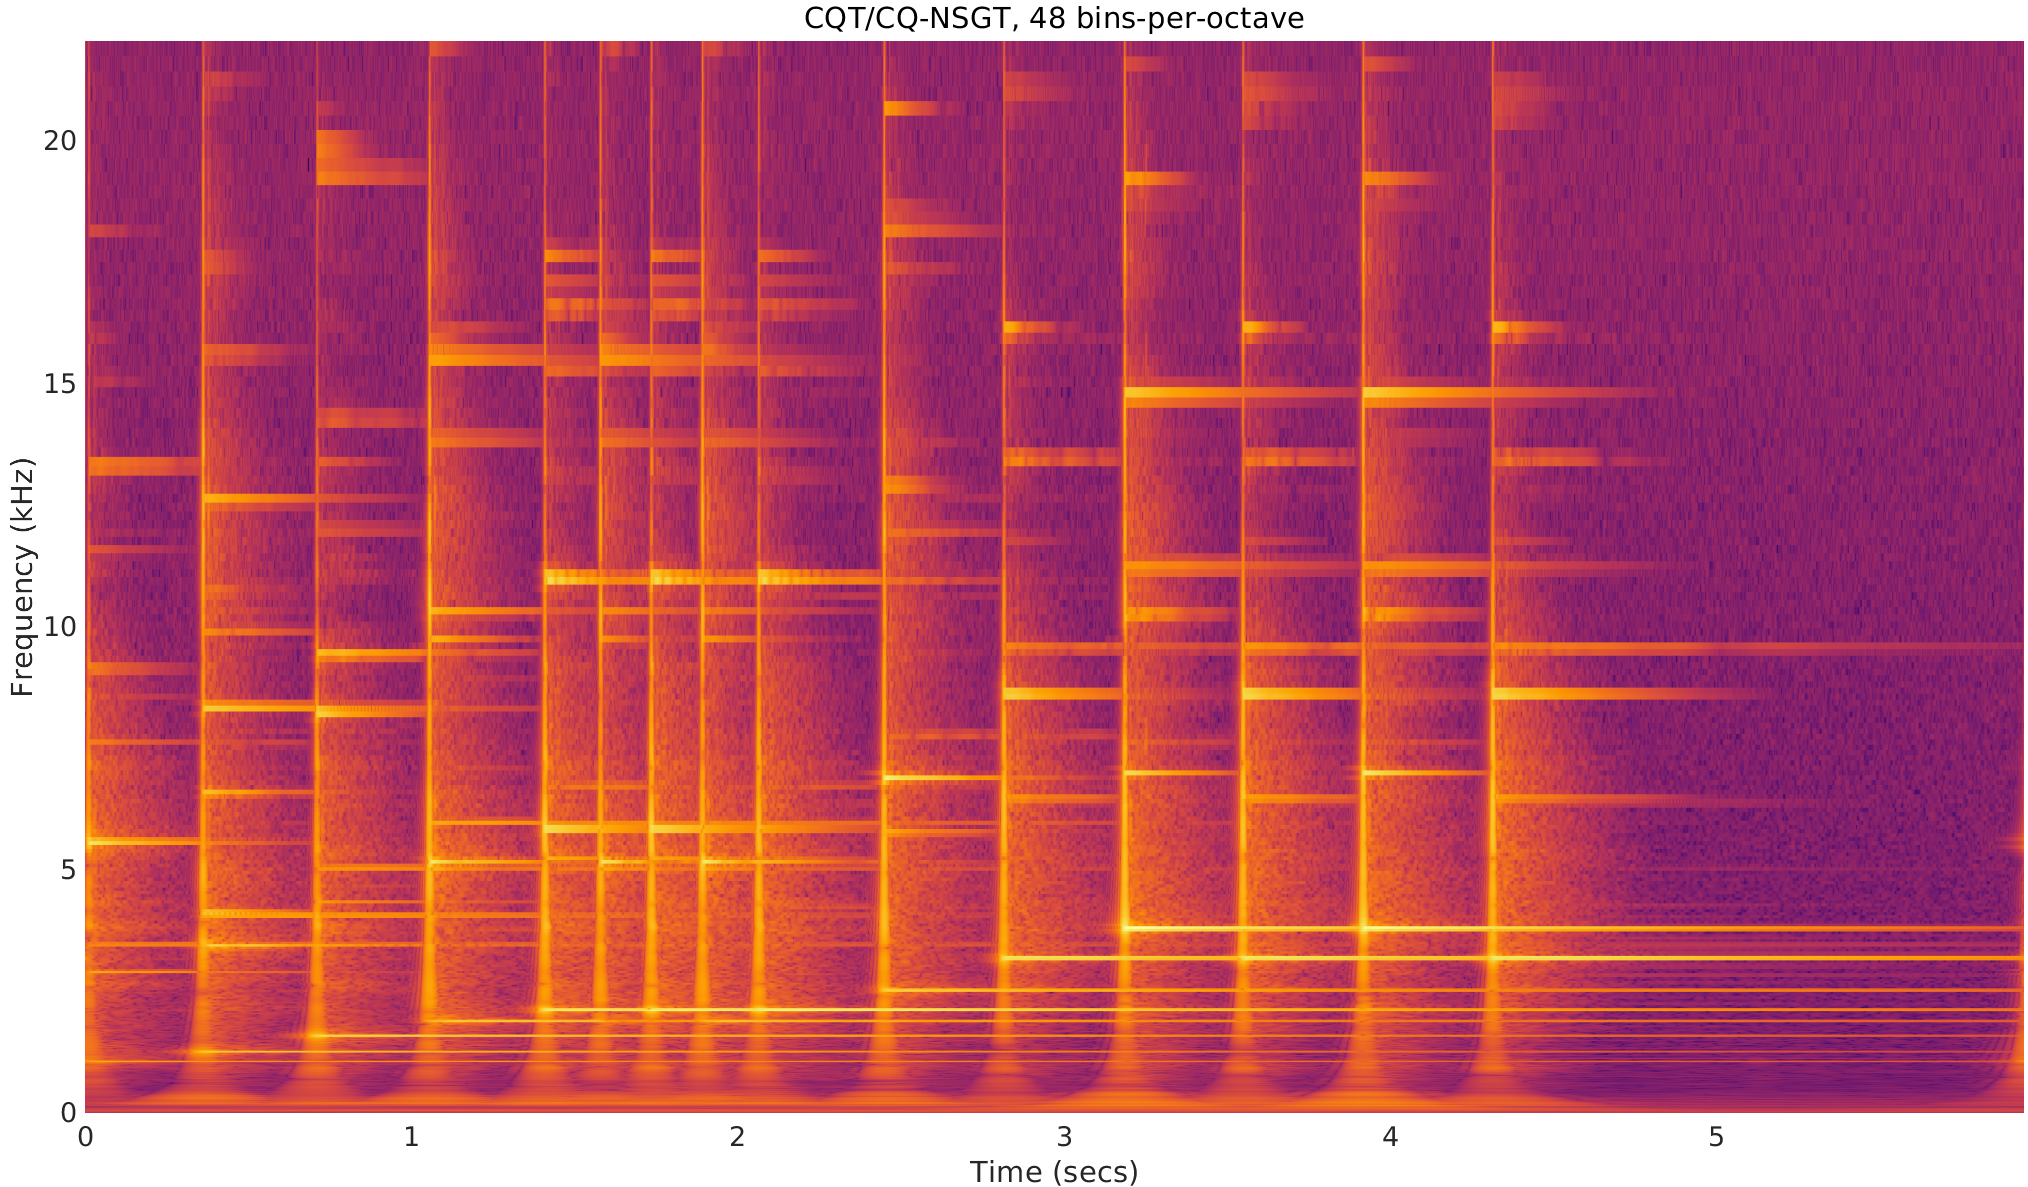
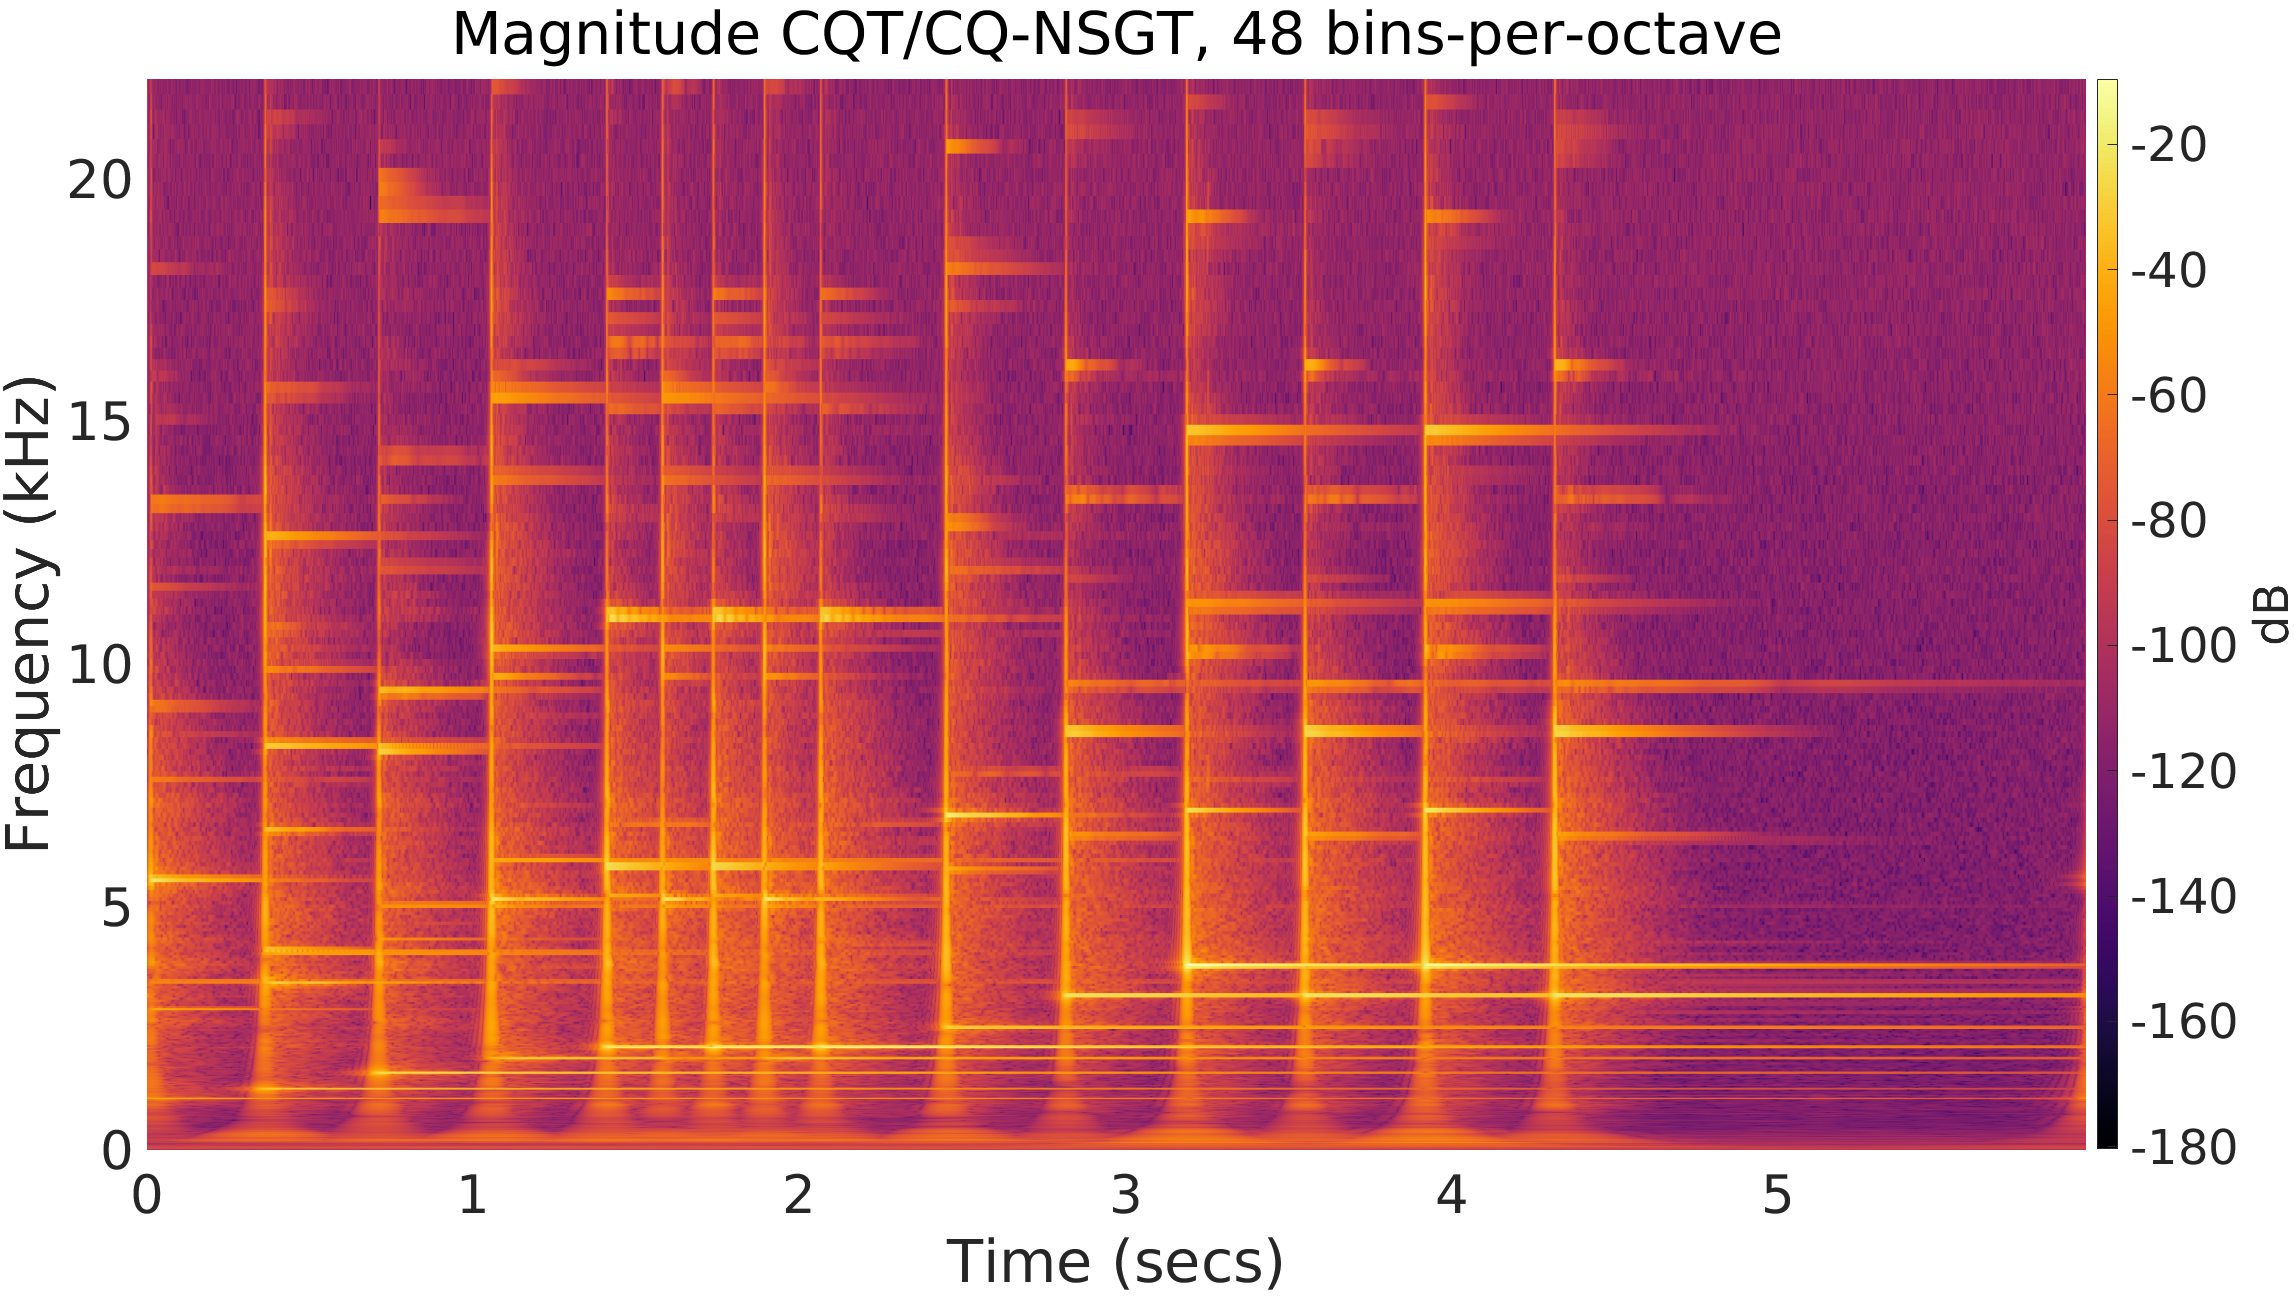
Improve nsgt spectrogram script further

diff --git a/nsgt_spec_plotter/nsgt/examples/spectrogram.py b/nsgt_spec_plotter/nsgt/examples/spectrogram.py
@@ -18,8 +18,9 @@ from nsgt import NSGT, NSGT_sliced, LogScale, LinScale, MelScale, OctScale, VQLo
 from nsgt.fscale import Pow2Scale
 from nsgt.slicq import overlap_add_slicq
 
-
 from argparse import ArgumentParser
+
+
 parser = ArgumentParser()
 
 parser.add_argument("input", type=str, help="Input file")
@@ -30,6 +31,7 @@ parser.add_argument("--gamma", type=float, default=15, help="variable-q frequenc
 parser.add_argument("--cmap", type=str, default='hot', help="spectrogram color map")
 parser.add_argument("--scale", choices=('oct','cqlog','mel','bark','vqlog','pow2'), default='cqlog', help="Frequency scale")
 parser.add_argument("--bins", type=int, default=50, help="Number of frequency bins (total or per octave, default=%(default)s)")
+parser.add_argument("--fontsize", type=int, default=14, help="Plot font size, default=%(default)s)")
 parser.add_argument("--sllen", type=int, default=None, help="Slice length in samples (default=%(default)s)")
 parser.add_argument("--trlen", type=int, default=None, help="Transition area in samples (default=%(default)s)")
 parser.add_argument("--plot", action='store_true', help="Plot transform (needs installed matplotlib package)")
@@ -59,27 +61,20 @@ else:
 freqs, qs = scl()
 #print(freqs)
 #print(['{0:.2f}'.format(q) for q in qs])
-
-print(', '.join(['{0:.2f}'.format(freq) for freq in freqs[:5]]))
-print()
-
-print(', '.join(['{0:.2f}'.format(freq) for freq in freqs[-5:]]))
-print()
-
-print(', '.join(['{0:.2f}'.format(q) for q in qs[:5]]))
-print()
-
-print(', '.join(['{0:.2f}'.format(q) for q in qs[-5:]]))
-print()
+#print(', '.join(['{0:.2f}'.format(freq) for freq in freqs[:5]]))
+#print()
+#print(', '.join(['{0:.2f}'.format(freq) for freq in freqs[-5:]]))
+#print()
+#print(', '.join(['{0:.2f}'.format(q) for q in qs[:5]]))
+#print()
+#print(', '.join(['{0:.2f}'.format(q) for q in qs[-5:]]))
+#print()
 
 # Read audio data
 sf = SndReader(args.input, sr=fs, chns=2)
 signal = sf()
 
 signal = [torch.tensor(sig) for sig in signal]
-
-pad = signal[0].shape[-1]-signal[-1].shape[-1]
-signal[-1] = torch.nn.functional.pad(signal[-1], (0, pad), mode='constant', value=0)
 signal = torch.cat(signal, dim=-1)
 
 # duration of signal in s
@@ -118,14 +113,25 @@ else:
 # add a batch
 c = torch.unsqueeze(c, dim=0)
 
+transform_name = 'sliCQT'
+
 if args.plot:
     # dB
     if args.nonsliced:
         mls = 20.*torch.log10(torch.abs(c))
+        transform_name = 'NSGT'
     else:
+        print(f'c shape: {c.shape}')
+        chop = c.shape[-1]
+        print(f'chop: {chop}')
         mls = 20.*torch.log10(torch.abs(overlap_add_slicq(c, flatten=args.flatten)))
 
-    plt.rcParams.update({'font.size': 14})
+        print(f'pre-remove slice portions from the sides, mls: {mls.shape}')
+        mls = mls[:, :, :, int(chop/2):]
+        mls = mls[:, :, :, :-chop]
+        print(f'remove slice portions from the sides, mls: {mls.shape}')
+
+    plt.rcParams.update({'font.size': args.fontsize})
     fig, axs = plt.subplots(1)
 
     print(f"Plotting t*f space")
@@ -137,21 +143,21 @@ if args.plot:
 
     mls = mls.T
 
-    #fs_coef = fs*slicq.coef_factor # frame rate of coefficients
+    fs_coef = fs*slicq.coef_factor # frame rate of coefficients
     #mls_dur = len(mls)/fs_coef # final duration of MLS
     mls_dur = dur if not args.flatten else 2*dur
 
     mls_max = torch.quantile(mls, 0.999)
-    axs.imshow(mls.T, aspect=mls_dur/mls.shape[1]*0.2, interpolation='nearest', origin='lower', vmin=mls_max-60., vmax=mls_max, extent=(0,mls_dur,0,mls.shape[1]), cmap=args.cmap)
-    axs.set_title('Magnitude NSGT, {0} scale, {1} bins, {2:.1f}-{3:.1f} Hz'.format(args.scale, args.bins, args.fmin, args.fmax))
+    im = axs.imshow(mls.T, interpolation='nearest', origin='lower', vmin=mls_max-120., vmax=mls_max, extent=(0,mls_dur,0,fs/2000), cmap=args.cmap, aspect=1000*mls_dur/fs)
+    axs.set_title('Magnitude {4}, {0} scale, {1} bins, {2:.1f}-{3:.1f} Hz'.format(args.scale, args.bins, args.fmin, args.fmax, transform_name))
     axs.set_xlabel('Time (s)')
-    axs.set_ylabel('Frequency bin')
+    axs.set_ylabel('Frequency (kHz)')
+    axs.yaxis.get_major_locator().set_params(integer=True)
+
+    fig.colorbar(im, ax=axs, shrink=0.815, pad=0.006, label='dB')
 
     sig = torch.mean(signal, dim=0)
     print(f'sig: {sig.shape} {fs}')
-
-    #axs[1].specgram(sig, Fs=fs, NFFT=2048, noverlap=512, mode='magnitude', scale='dB', sides='onesided')
-    #axs[1].set_title(f'|STFT|')
 
     plt.subplots_adjust(wspace=0.001,hspace=0.001)
     plt.show()

diff --git a/matlab/plot_things.m b/matlab/plot_things.m
@@ -1,7 +1,6 @@
 init;
 
-
-set(0, 'DefaultAxesFontSize', 20);
+set(0, 'DefaultAxesFontSize', 40);
 
 [sig, fs] = gspi;
 
@@ -81,12 +80,12 @@ t = (0.0:dT:duration-dT)';
 
 figure;
 spectrogram(sig,4096,1024,4096,fs,'yaxis');
-title('STFT, window=4096, overlap=1024','FontWeight','Normal');
+title('Magnitude STFT, window=4096, overlap=1024','FontWeight','Normal');
 colormap ltfat_inferno;
 
 
 figure;
 cqt(sig,'SamplingFrequency',fs,'BinsPerOctave',48);
-title('CQT/CQ-NSGT, 48 bins-per-octave','FontWeight','Normal');
+title('Magnitude CQT/CQ-NSGT, 48 bins-per-octave','FontWeight','Normal');
 colormap ltfat_inferno;
 

diff --git a/mdx-satellite-paper/paper.md b/mdx-satellite-paper/paper.md
@@ -28,9 +28,10 @@ The sliCQ Transform [@slicq], or sliCQT, is a realtime implementation of the Non
 
 \autoref{fig:spectrograms} shows a comparison of various spectrograms of a 5.94 second glockenspiel signal.^[<https://github.com/ltfat/ltfat/blob/master/signals/gspi.wav>] The spectrograms are generated using an STFT with the Open-Unmix default window size of 4096, the CQ-NSGT with 48 bins-per-octave, and the sliCQ Transform with 262 frequency bins in 32.9-22050 Hz on the Bark scale, which are the sliCQT parameters used in xumx-sliCQ.
 
-![](https://gitlab.com/sevagh/xumx_slicq_extra/-/raw/main/mdx-satellite-paper/static-assets/glock_stft4096.png){ width=49% } ![](https://gitlab.com/sevagh/xumx_slicq_extra/-/raw/main/mdx-satellite-paper/static-assets/glock_cqt48.png){ width=49% }
+![](./static-assets/glock_stft4096.png){ width=48% }\hspace{0.5em}![](./static-assets/glock_cqt48.png){ width=48% }
+\vspace{-0.65em}
 
-![Comparison of the musical information captured by STFT, CQT, and sliCQT spectrograms.\label{fig:spectrograms}](https://gitlab.com/sevagh/xumx_slicq_extra/-/raw/main/mdx-satellite-paper/static-assets/slicqt_bark_262_329hz.png){ width=100% }
+![STFT, CQT, and sliCQT magnitude spectrograms of the musical glockenspiel signal.\label{fig:spectrograms}](./static-assets/slicqt_bark_262_329hz.png){ width=54% }
 
 # Methodology
 
